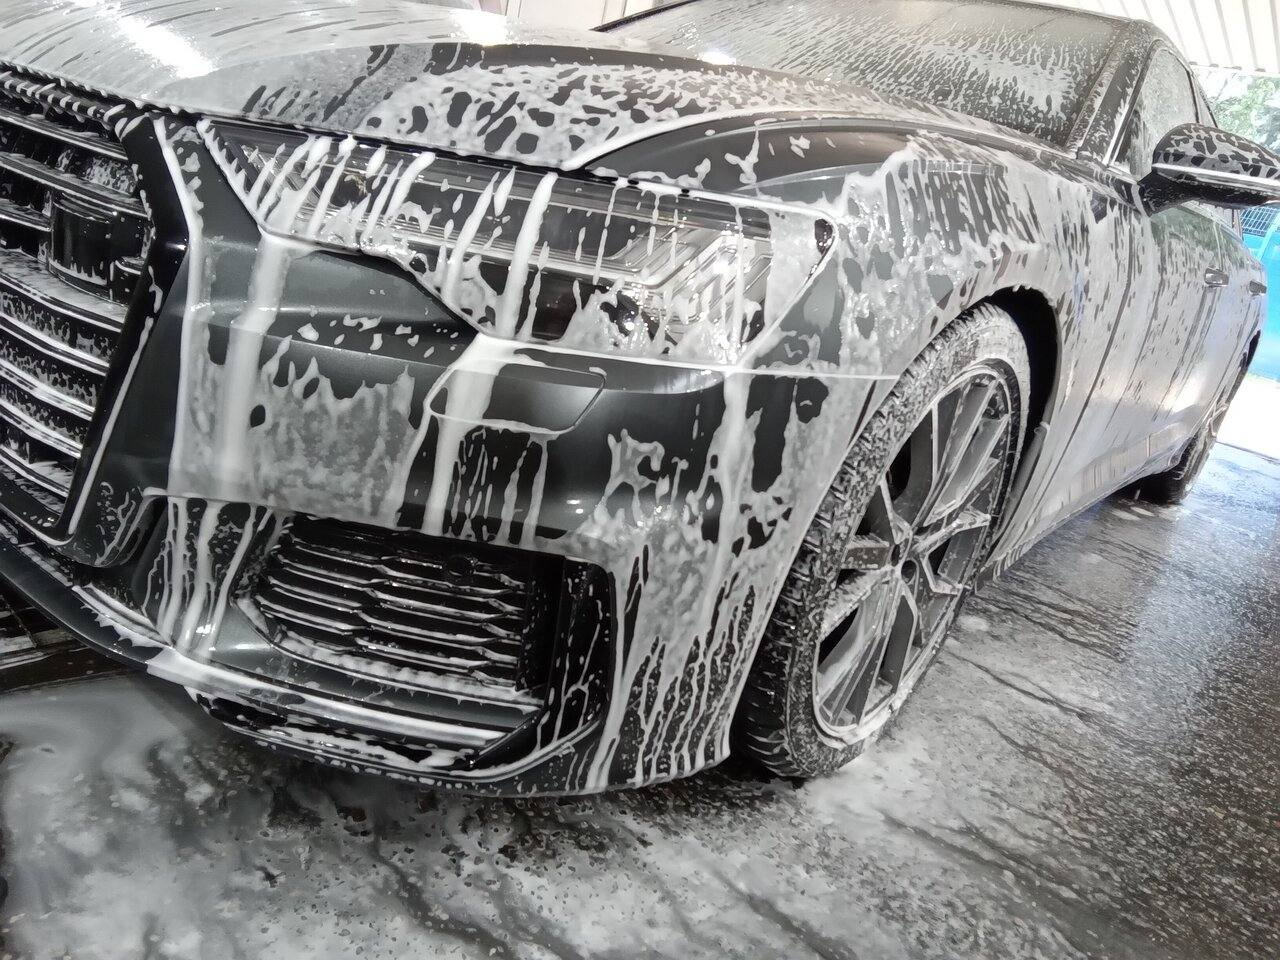
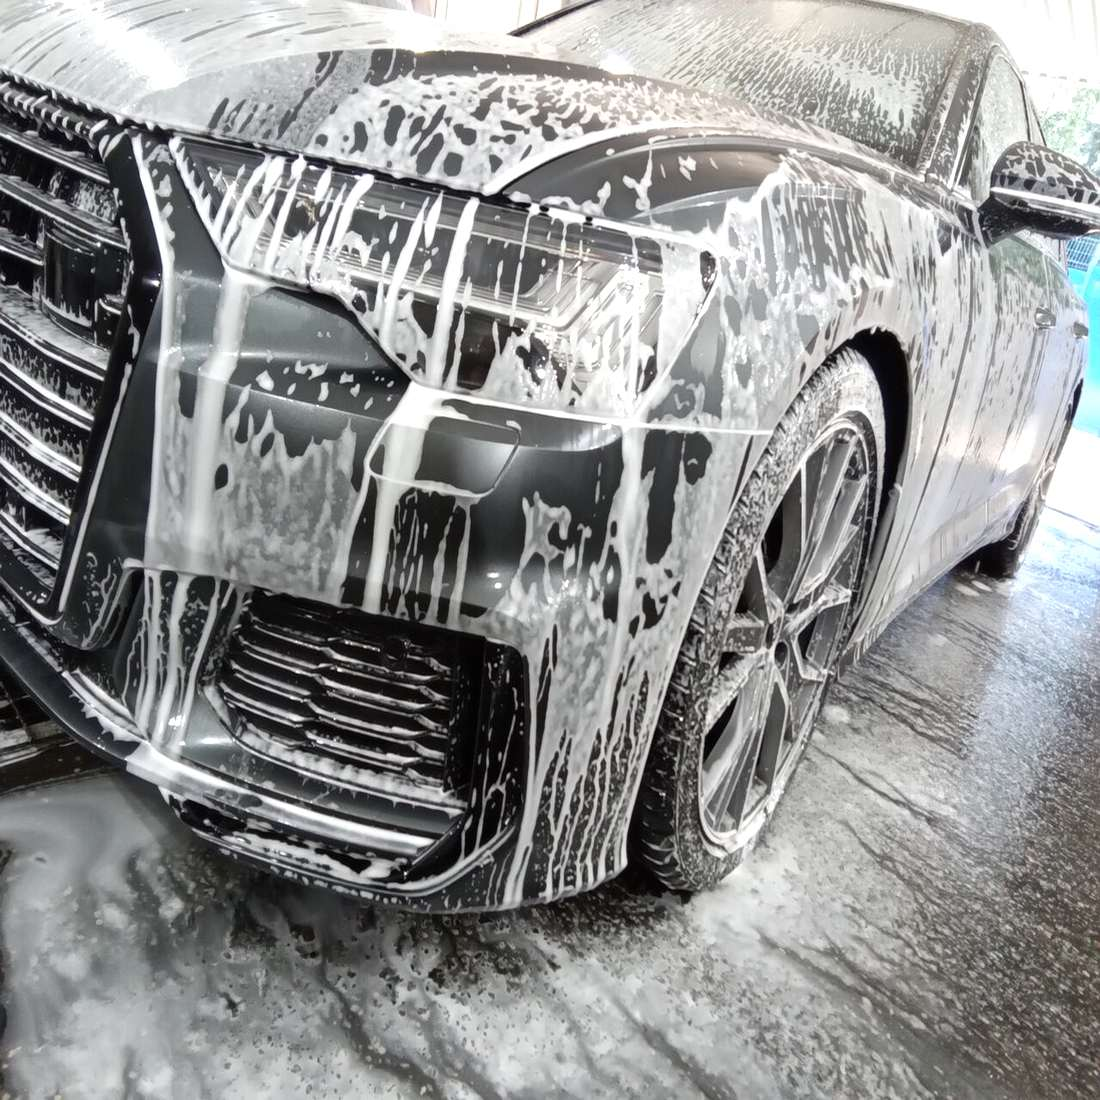
Блок «Моем как свою»: фото грузится сразу, легче и светлее, затемнение только под текстом

diff --git a/index.html b/index.html
@@ -241,9 +241,9 @@ nav .btn{height:48px;padding:0 24px}
 /* ФОТО НА ВЕСЬ ЭКРАН ПРИ СКРОЛЛЕ (Scroll Media Expansion, 21st.dev). JS ставит --p от 0 до 1 */
 .xp{padding:0;height:240vh}
 .xp-st{position:sticky;top:0;height:100svh;overflow:hidden;display:grid;place-items:center;--p:0}
-.xp-m{position:absolute;inset:0;clip-path:inset(calc((1 - var(--p))*24%) calc((1 - var(--p))*31%) round calc((1 - var(--p))*32px));will-change:clip-path}
+.xp-m{position:absolute;inset:0;background:#1b1b1e;clip-path:inset(calc((1 - var(--p))*24%) calc((1 - var(--p))*31%) round calc((1 - var(--p))*32px));will-change:clip-path}
 .xp-m img{width:100%;height:100%;object-fit:cover;transform:scale(calc(1.25 - var(--p)*.25))}
-.xp-m:after{content:"";position:absolute;inset:0;background:rgba(8,8,9,calc(.15 + var(--p)*.45))}
+.xp-m:after{content:"";position:absolute;inset:0;background:linear-gradient(0deg,rgba(8,8,9,calc(.25 + var(--p)*.5)),rgba(8,8,9,.08) 60%)}
 .xp-w{position:relative;z-index:2;display:grid;justify-items:center;pointer-events:none;font:900 clamp(46px,9vw,150px)/.9 var(--head);text-transform:uppercase;letter-spacing:-.05em;text-align:center}
 .xp-w b{display:block;font-weight:inherit}
 .xp-w b:first-child{transform:translateX(calc(var(--p)*-30vw));opacity:calc(1 - var(--p)*1.4)}
@@ -585,7 +585,7 @@ html.lock{overflow:hidden}
 <!-- ФОТО РАСКРЫВАЕТСЯ НА ВЕСЬ ЭКРАН при прокрутке -->
 <section class="xp" id="xp" aria-label="Моем как свою">
  <div class="xp-st" id="xpSt">
-  <div class="xp-m"><img src="img/xp.jpg" alt="Audi в пене на мойке PRO Детейлинг" loading="lazy"></div>
+  <div class="xp-m"><img src="img/xp.jpg" alt="Audi в пене на мойке PRO Детейлинг" decoding="async"></div>
   <div class="xp-w" aria-hidden="true"><b>Моем</b><b>как свою</b></div>
   <div class="xp-q"><p>«Реально моют как свою, <em>машина как новая»</em></p><small>Елена А. · отзыв на Яндекс Картах</small></div>
  </div>
